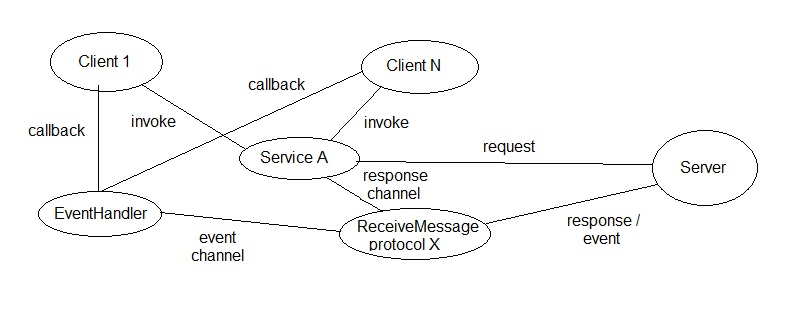
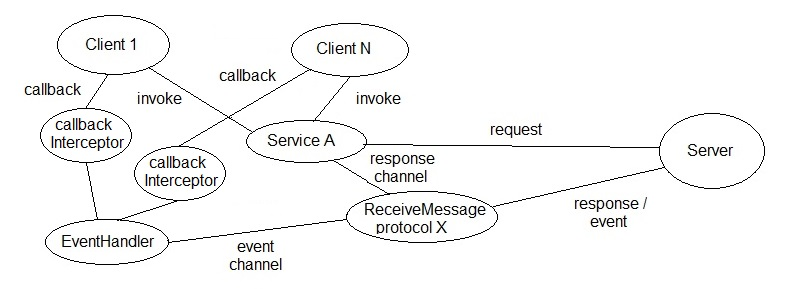
Documentation update

diff --git a/spec/VAPIv1.0.html b/spec/VAPIv1.0.html
@@ -455,7 +455,7 @@
 
       <section id="cancel-service-procedure">
         <h2>CancelService</h2>
-        <p>Cancels on ongoing service.</p>
+        <p>Cancels an ongoing service.</p>
 
         <p>
         This procedure terminates an ongoing service call associated with the provided serviceId.

diff --git a/impl/VISS-Go/README.md b/impl/VISS-Go/README.md
@@ -15,9 +15,31 @@ $ ./vapiTest
 # Service invokation achitecture
 The image below shows the architecture for the message flows when a client invokes a service.
 ![VAPI service invokation architecture](/images/vapi-service-invokation-arch.jpg)
-Before the client invokes a service the following must 
-1. The client must call xxxx
+In case the service does not utilize event/callback reporting the SwCs in the lower left of the figure do not take part in the service message flow.
+The sequence is in the case of no event reporting the following:
+1. The Client calls the Service with any input parameters as specified by VAPI for the service.
+2. The Service serializes the data according to the active protocol to be used, and issues a request to the remote server.
+The logic that implements the service may involve more than one request being sent to the vehicle server, but for simplicity of the example it is assumed it is only one request.
+3. The vehicle server acts on the request, creates a response which is received by the ReceiveMessage SwC. 
+4. ReceiveMessage forwards the response to the Service.
+5. The Service reformats the response data into the output format as specified by VAPI and returns it to the client.
 
-The above is executed once, typically at 
-1. A client calls the service method.
-2. 
+In case the service does utilize event/callback reporting the the following is appended to the sequence above.
+6. The vehicle server issues an event message to ReceiveMessage.
+7. ReceiveMessage forwards the message to the EventHandler.
+8. The EventHandler reformats the event data into the VAPI output format for the service nd forwards it to the callbackInterceptor.
+9. The callbackInterceptor checks the event data to decide whether it is the last event being received as part of the invoked service call.
+If so it issues a request to the vehicle server to terminate the event reporting for this ongoing session.
+10. The callbackInterceptor forwards the callback message to the Client.
+
+This is the high level description of the information flow that does not mention details such that:
+
+A. The ReceiveMessage SwC, which is protocol specific, is instantiated by a previous client call to Connect,
+and it is terminated if a later client call is made to Disconnect.
+
+B. The EvenHandler is instantiated by a prevoius client call to GetVehicle, and it is terminated if a later client call is made to ReleaseVehicle.
+
+C. The callbackInterceptor is instantiated by the Service. A service may be implemented without instantiation of a callbackInterceptor.
+This would be the case if a callbackInterceptor does not have access to sufficient information to make a decision to terminate the callback session
+by calling CancelService.
+The responsibility of this termination is then placed on the client. The Service dokumentation shall clearly state where this responsibility lies.
